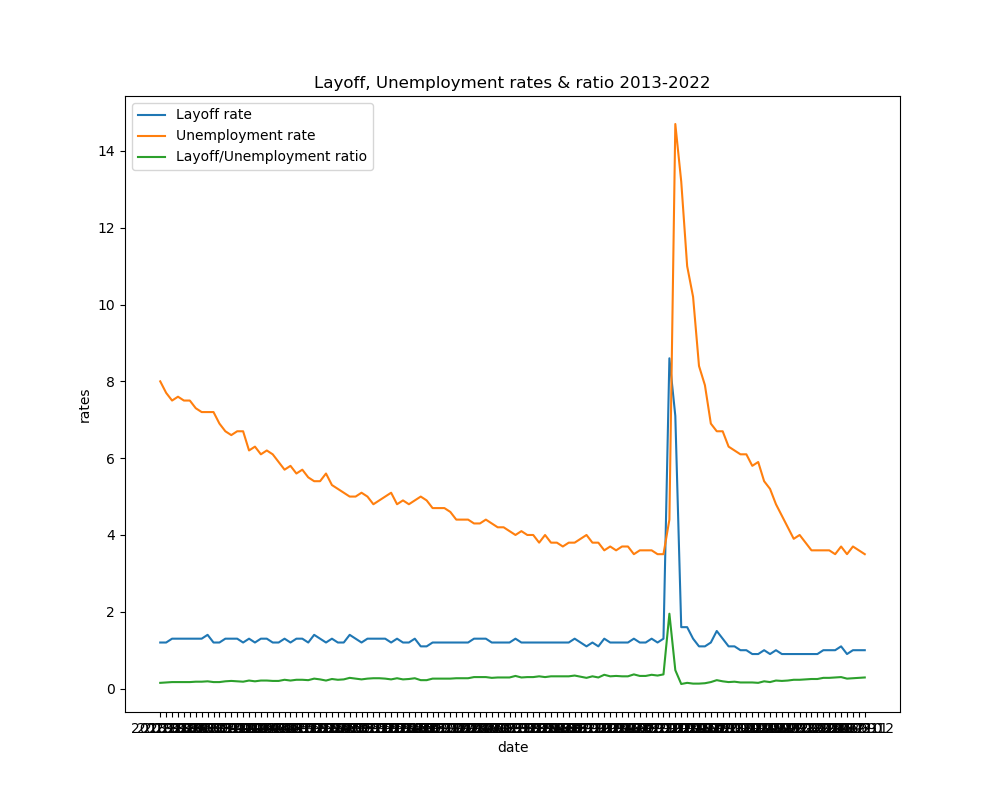
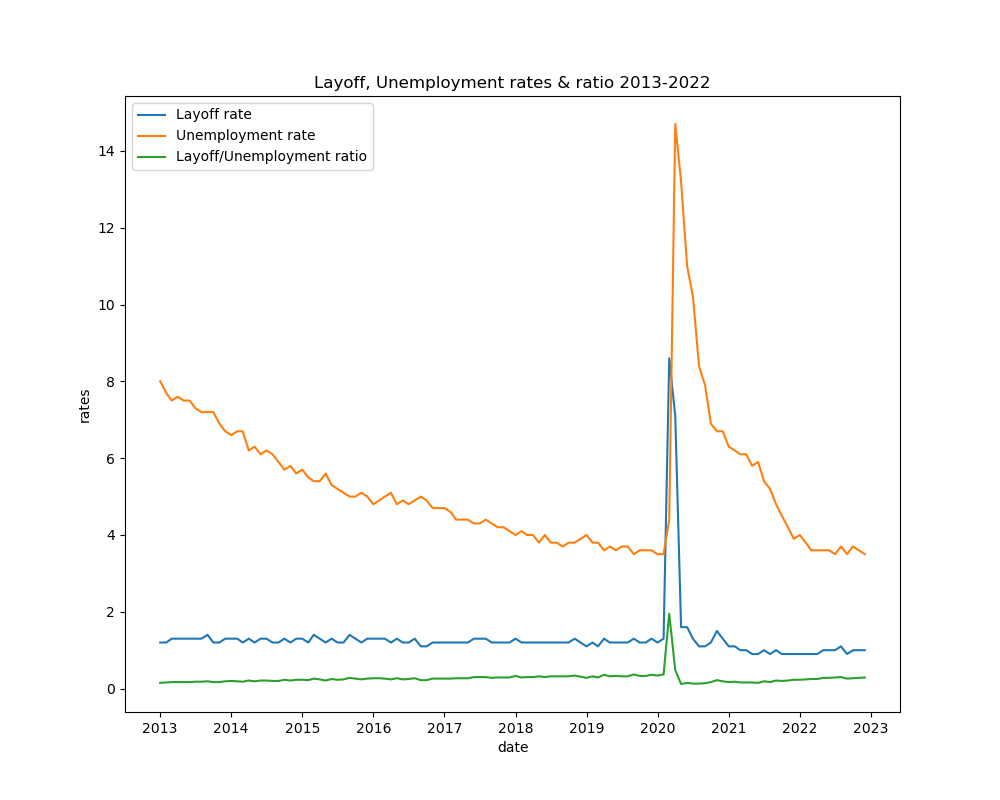
optimized visualization

Changed region(s): [[0.124, 0.875, 0.899, 0.9375], [0.651, 0.4688, 0.682, 0.5]]

diff --git a/calc_vis.py b/calc_vis.py
@@ -5,6 +5,7 @@ import requests
 import csv
 import matplotlib
 import matplotlib.pyplot as plt
+import numpy as np
 
 def ConnectDatabase(db_name): # function to connect database
     path = os.path.dirname(os.path.abspath(__file__))
@@ -165,11 +166,12 @@ def main():
 
     fig3.savefig('layoff_vs_unemployment.png')
 
+    dates = np.asarray(ratio[3], dtype='datetime64[s]')
     fig4 = plt.figure(figsize=(10,8))
     ax4 = fig4.add_subplot(111)
-    line1, =ax4.plot(ratio[3], ratio[0], label = 'Layoff rate')
-    line2, =ax4.plot(ratio[3], ratio[1], label = 'Unemployment rate')
-    line3, =ax4.plot(ratio[3], ratio[2], label = 'Layoff/Unemployment ratio')
+    line1, =ax4.plot(dates, ratio[0], label = 'Layoff rate')
+    line2, =ax4.plot(dates, ratio[1], label = 'Unemployment rate')
+    line3, =ax4.plot(dates, ratio[2], label = 'Layoff/Unemployment ratio')
     ax4.legend(handles=[line1, line2, line3])
     ax4.set_xlabel('date')
     ax4.set_ylabel('rates')
